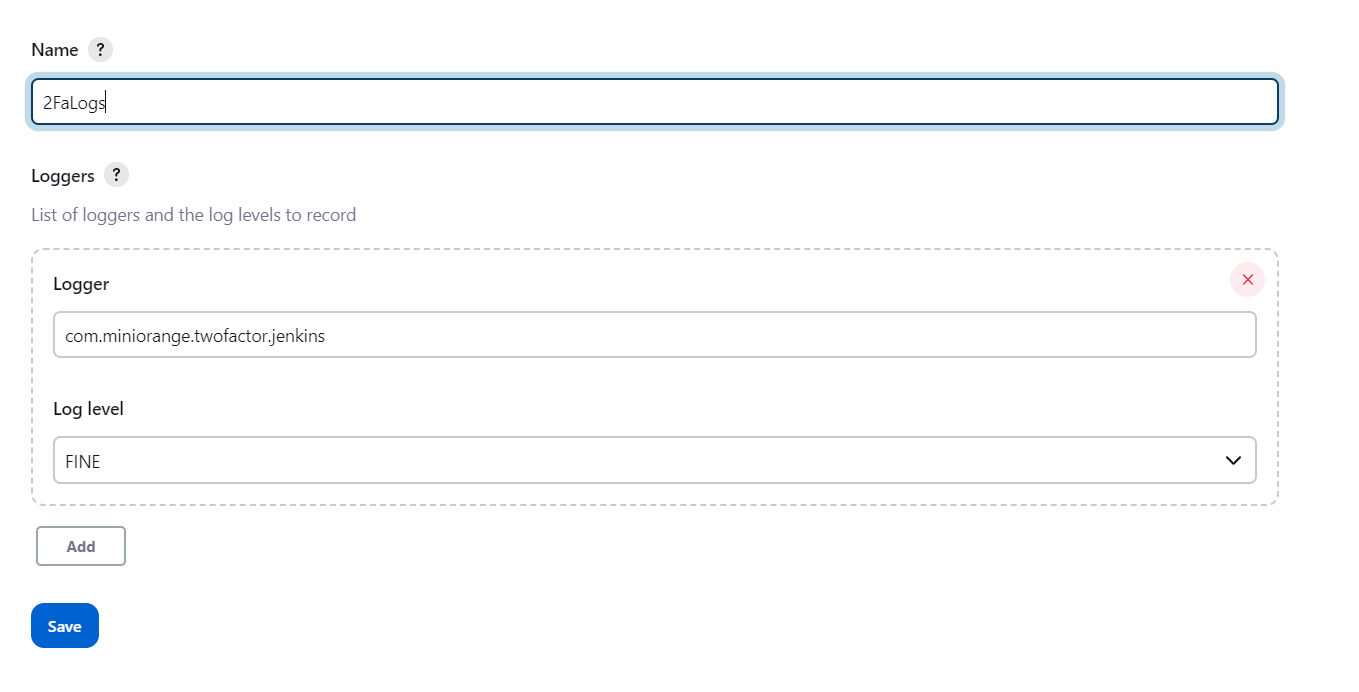
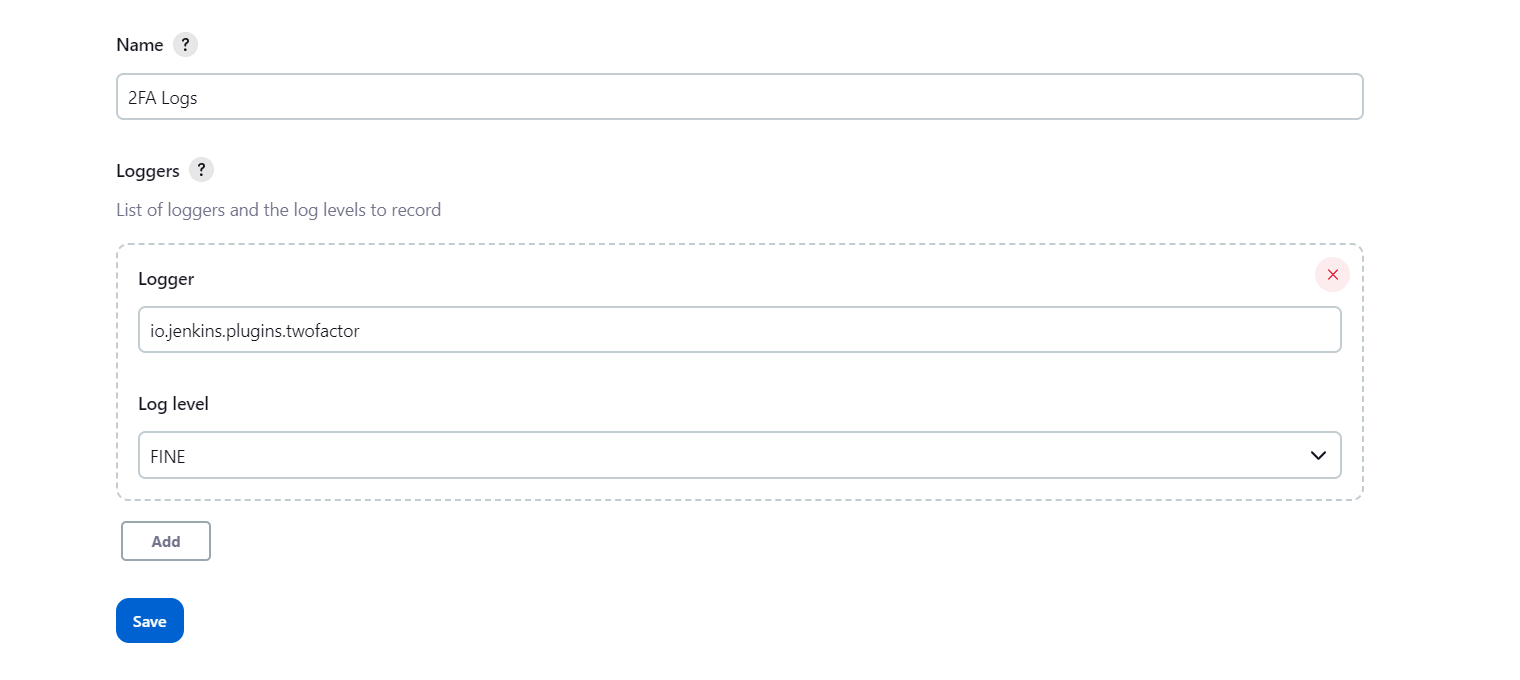
Jenkins 2FA release-1.0.3

diff --git a/src/main/java/io/jenkins/plugins/twofactor/jenkins/tfaMethodsAuth/MoOtpOverEmailAuth.java b/src/main/java/io/jenkins/plugins/twofactor/jenkins/tfaMethodsAuth/MoOtpOverEmailAuth.java
@@ -22,8 +22,8 @@
 package io.jenkins.plugins.twofactor.jenkins.tfaMethodsAuth;
 
 import static hudson.tasks.Mailer.stringToAddress;
-import static io.jenkins.plugins.twofactor.constants.MoGlobalConfigConstant.UtilityGlobalConstants.SESSION_2FA_VERIFICATION;
 import static io.jenkins.plugins.twofactor.jenkins.MoFilter.userAuthenticationStatus;
+import static io.jenkins.plugins.twofactor.jenkins.MoUserAuth.allow2FaAccessAndRedirect;
 
 import hudson.Util;
 import hudson.model.Action;
@@ -253,53 +253,32 @@ public class MoOtpOverEmailAuth implements Action {
     try {
       String userInputOtp = json.getString("emailOtpForVerification");
       HttpSession session = req.getSession(false);
+      String LoggingAction = "Authenticating the OTPOverEmail  OTP to login user";
+
       if (!isOtpOverEmailConfigured) {
-        LOGGER.fine("Authenticating the OTP to set OTPOverEmailConfig for user");
-        MoOtpOverEmailConfig otpOverEmailConfig = user.getProperty(MoOtpOverEmailConfig.class);
-        if (userInputOtp.equals(sentOtp.get(user.getId()))) {
-          LOGGER.fine("Otp is authentic");
-          otpOverEmailConfig.setConfigured(true);
-          sentOtp.remove(user.getId());
-
-          if (session != null) {
-            redirectUrl = (String) session.getAttribute("tfaRelayState");
-            session.removeAttribute("tfaRelayState");
-            session.setAttribute(user.getId() + SESSION_2FA_VERIFICATION.getKey(), "true");
-            userAuthenticationStatus.put(user.getId(), true);
-            showWrongCredentialWarning.put(user.getId(), false);
-          } else {
-            LOGGER.fine("Entered wrong otp for otpOverEmailConfig");
-            redirectUrl = "./";
-            showWrongCredentialWarning.put(user.getId(), true);
-          }
-        } else {
-          LOGGER.fine("Entered wrong otp for otpOverEmailConfig");
-          redirectUrl = "./";
-          showWrongCredentialWarning.put(user.getId(), true);
-        }
-
-        user.save();
-      } else {
-        LOGGER.fine("Authenticating the OTPOverEmail  OTP to login user");
-        if (userInputOtp.equals(sentOtp.get(user.getId()))) {
-          LOGGER.fine("User is authentic");
-          sentOtp.remove(user.getId());
-          if (session != null) {
-            redirectUrl = (String) session.getAttribute("tfaRelayState");
-            session.removeAttribute("tfaRelayState");
-            session.setAttribute(user.getId() + SESSION_2FA_VERIFICATION.getKey(), "true");
-            userAuthenticationStatus.put(user.getId(), true);
-            showWrongCredentialWarning.put(user.getId(), false);
-          }
-
-        } else {
-          LOGGER.fine("User is not authentic");
-          redirectUrl = "./";
-          showWrongCredentialWarning.put(user.getId(), true);
-        }
+        LoggingAction = "Authenticating the OTP to set OTPOverEmailConfig for user";
       }
+
+      LOGGER.fine(LoggingAction);
+
+      MoOtpOverEmailConfig otpOverEmailConfig = user.getProperty(MoOtpOverEmailConfig.class);
+
+      if (userInputOtp.equals(sentOtp.get(user.getId()))) {
+        LOGGER.fine("Otp is authentic");
+        otpOverEmailConfig.setConfigured(true);
+        sentOtp.remove(user.getId());
+        redirectUrl = allow2FaAccessAndRedirect(session, user, showWrongCredentialWarning);
+      } else {
+        LOGGER.fine("Entered wrong otp for otpOverEmailConfig");
+        redirectUrl = "./";
+        showWrongCredentialWarning.put(user.getId(), true);
+      }
+      if (!isOtpOverEmailConfigured) {
+        user.save();
+      }
+
       if (redirectUrl == null) redirectUrl = Jenkins.get().getRootUrl();
-      LOGGER.fine("Redirecting user from otpOverEmailAuth to " + redirectUrl);
+      LOGGER.fine("Redirecting" + user.getId() + " from otpOverEmailAuth to " + redirectUrl);
       FormApply.success(redirectUrl).generateResponse(req, rsp, null);
 
     } catch (RuntimeException e) {

diff --git a/src/main/java/io/jenkins/plugins/twofactor/jenkins/tfaMethodsAuth/MoSecurityQuestionAuth.java b/src/main/java/io/jenkins/plugins/twofactor/jenkins/tfaMethodsAuth/MoSecurityQuestionAuth.java
@@ -21,10 +21,10 @@
  */
 package io.jenkins.plugins.twofactor.jenkins.tfaMethodsAuth;
 
-import static io.jenkins.plugins.twofactor.constants.MoGlobalConfigConstant.UtilityGlobalConstants.SESSION_2FA_VERIFICATION;
-import static io.jenkins.plugins.twofactor.jenkins.MoFilter.userAuthenticationStatus;
+import static io.jenkins.plugins.twofactor.jenkins.MoUserAuth.allow2FaAccessAndRedirect;
 import static jenkins.model.Jenkins.get;
 
+import hudson.Extension;
 import hudson.model.*;
 import hudson.util.FormApply;
 import io.jenkins.plugins.twofactor.constants.MoPluginUrls;
@@ -39,7 +39,7 @@ import org.kohsuke.stapler.StaplerRequest;
 import org.kohsuke.stapler.StaplerResponse;
 import org.kohsuke.stapler.interceptor.RequirePOST;
 
-// @Extension
+ @Extension
 public class MoSecurityQuestionAuth implements Action {
   private static final Logger LOGGER = Logger.getLogger(MoSecurityQuestionAuth.class.getName());
   int firstRandomSecurityQuestionIndex = 0;
@@ -107,9 +107,13 @@ public class MoSecurityQuestionAuth implements Action {
     }
   }
 
+   @SuppressWarnings("unused")
+   public void doInitializeRandomTwoIndex() {
+     initializeRandomTwoIndex();
+   }
+
   @SuppressWarnings("unused")
   public String getFirstRandomSecurityQuestion() {
-    initializeRandomTwoIndex();
     return securityQuestionArray[firstRandomSecurityQuestionIndex];
   }
 
@@ -155,22 +159,15 @@ public class MoSecurityQuestionAuth implements Action {
       if (user == null) return;
       if (validateUserAnswers(formData)) {
         LOGGER.fine(user.getId() + " user is authentic");
-        if (session != null) {
-          redirectUrl = (String) session.getAttribute("tfaRelayState");
-          session.removeAttribute("tfaRelayState");
-          session.setAttribute(user.getId() + SESSION_2FA_VERIFICATION.getKey(), "true");
-          userAuthenticationStatus.put(user.getId(), true);
-        }
-        showWrongCredentialWarning.put(user.getId(), false);
+        redirectUrl = allow2FaAccessAndRedirect(session, user, showWrongCredentialWarning);
       } else {
         LOGGER.fine("User is not authentic");
         redirectUrl = "./";
         showWrongCredentialWarning.put(user.getId(), true);
       }
-      LOGGER.fine("Redirecting user to " + redirectUrl);
 
       if (redirectUrl == null) redirectUrl = Jenkins.get().getRootUrl();
-
+      LOGGER.fine("Redirecting" + user.getId() + " from  MoSecurityQuestionAuth to " + redirectUrl);
       FormApply.success(redirectUrl).generateResponse(staplerRequest, staplerResponse, null);
     } catch (Exception e) {
       LOGGER.fine("Exception while authenticating/Logging out the user " + e.getMessage());

diff --git a/src/main/java/io/jenkins/plugins/twofactor/jenkins/MoUserAuth.java b/src/main/java/io/jenkins/plugins/twofactor/jenkins/MoUserAuth.java
@@ -21,10 +21,13 @@
  */
 package io.jenkins.plugins.twofactor.jenkins;
 
+import static io.jenkins.plugins.twofactor.constants.MoGlobalConfigConstant.UtilityGlobalConstants.SESSION_2FA_VERIFICATION;
 import static io.jenkins.plugins.twofactor.constants.MoPluginUrls.Urls.MO_USER_AUTH;
+import static io.jenkins.plugins.twofactor.jenkins.MoFilter.userAuthenticationStatus;
 import static jenkins.model.Jenkins.get;
 
 import hudson.Extension;
+import hudson.ExtensionList;
 import hudson.model.Describable;
 import hudson.model.Descriptor;
 import hudson.model.RootAction;
@@ -37,6 +40,8 @@ import java.util.HashMap;
 import java.util.Map;
 import java.util.logging.Logger;
 import jenkins.model.Jenkins;
+
+import javax.servlet.http.HttpSession;
 
 @SuppressWarnings("unused")
 @Extension
@@ -112,6 +117,23 @@ public class MoUserAuth implements RootAction, Describable<MoUserAuth> {
     boolean isConfigured = otpOverEmailConfig != null && otpOverEmailConfig.isConfigured();
     boolean isEnabled = MoGlobalConfig.get().isEnableOtpOverEmailAuthentication();
     return isConfigured && isEnabled;
+  }
+
+  public static String allow2FaAccessAndRedirect(HttpSession session, User user, Map<String, Boolean> showWrongCredentialWarning){
+    String redirectUrl;
+    if (session != null) {
+      redirectUrl = (String) session.getAttribute("tfaRelayState");
+      session.removeAttribute("tfaRelayState");
+      session.setAttribute(user.getId() + SESSION_2FA_VERIFICATION.getKey(), "true");
+      userAuthenticationStatus.put(user.getId(), true);
+      MoUserAuth moUserAuth = ExtensionList.lookupSingleton(MoUserAuth.class);
+      moUserAuth.cleanUserAuthResource(user.getId());
+      showWrongCredentialWarning.put(user.getId(), false);
+    } else {
+      LOGGER.fine("Session is null, hence not authenticating the user");
+      redirectUrl = "./";
+    }
+    return redirectUrl;
   }
 
   @SuppressWarnings("unchecked")

diff --git a/src/main/java/io/jenkins/plugins/twofactor/jenkins/MoFilter.java b/src/main/java/io/jenkins/plugins/twofactor/jenkins/MoFilter.java
@@ -154,11 +154,15 @@ public class MoFilter implements Filter {
             "/login",
             "/adjuncts",
             "/static",
+            ".css",
+            ".js",
             "PopupContent",
             "/ajaxBuildQueue",
             "/ajaxExecutors",
             "/descriptorByName",
             "/checkPluginUrl",
+            "/theme-dark",
+            "/resourceBundle",
             "/log");
     return urlsToAvoidRedirect(url, jenkinsUrls);
   }
@@ -172,6 +176,22 @@ public class MoFilter implements Filter {
             MoPluginUrls.Urls.MO_OTP_OVER_EMAIL_CONFIG.getUrl(),
             MO_USER_AUTH.getUrl() + "/");
     return urlsToAvoidRedirect(url, tfaPluginUrls);
+  }
+
+  private boolean RestUrlsToAvoid(String url){
+    List<String> restUrls =
+            Arrays.asList(
+                    "/createItem",
+                    "/createView",
+                    "/queue",
+                    "/overallLoad",
+                    "/quietDown",
+                    "/cancelQuietDown",
+                    "/restart",
+                    "/safeRestart",
+                    "/api/json"
+                    );
+    return urlsToAvoidRedirect(url,restUrls);
   }
 
   private static boolean enableTfaForAllUsers() {
@@ -218,7 +238,7 @@ public class MoFilter implements Filter {
       return true;
     }
 
-    if (tfaPluginUrlsToAvoidRedirect(url) || JenkinsUrlsToAvoidRedirect(url)) {
+    if (tfaPluginUrlsToAvoidRedirect(url) || JenkinsUrlsToAvoidRedirect(url) || RestUrlsToAvoid(url)){
       return true;
     }
 
@@ -240,6 +260,8 @@ public class MoFilter implements Filter {
       }
 
       String redirectUrl = getRedirectUrlForTfaAuthentication(user);
+
+      LOGGER.fine("Authentication method url " + redirectUrl);
 
       if (redirectUrl.equals("SKIP_FILTER")) {
         filterChain.doFilter(servletRequest, servletResponse);

diff --git a/src/main/java/io/jenkins/plugins/twofactor/jenkins/MoTfaCrumbExclusion.java b/src/main/java/io/jenkins/plugins/twofactor/jenkins/MoTfaCrumbExclusion.java
@@ -1,0 +1,45 @@
+package io.jenkins.plugins.twofactor.jenkins;
+
+import static io.jenkins.plugins.twofactor.constants.MoGlobalConfigConstant.UtilityGlobalConstants.SESSION_2FA_VERIFICATION;
+
+import hudson.Extension;
+import hudson.model.User;
+import hudson.security.csrf.CrumbExclusion;
+import java.io.IOException;
+import java.util.logging.Logger;
+import javax.servlet.FilterChain;
+import javax.servlet.ServletException;
+import javax.servlet.http.HttpServletRequest;
+import javax.servlet.http.HttpServletResponse;
+import javax.servlet.http.HttpSession;
+
+@Extension
+@SuppressWarnings("unused")
+public class MoTfaCrumbExclusion extends CrumbExclusion {
+  private static final Logger LOGGER = Logger.getLogger(MoTfaCrumbExclusion.class.getName());
+
+  @Override
+  public boolean process(
+      HttpServletRequest request, HttpServletResponse response, FilterChain filterChain)
+      throws IOException, ServletException {
+    HttpSession session = request.getSession();
+    User user = User.current();
+
+    if (user == null || session == null || ignoreCrumbCheck(session, user.getId())) {
+      filterChain.doFilter(request, response);
+      return true;
+    }
+    return false;
+  }
+
+  private boolean ignoreCrumbCheck(HttpSession session, String userId) {
+    String sessionAttributeKey = userId + SESSION_2FA_VERIFICATION.getKey();
+    Object tfaVerificationAttribute = session.getAttribute(sessionAttributeKey);
+
+    if (tfaVerificationAttribute == null) {
+      return true;
+    }
+
+    return !Boolean.parseBoolean(tfaVerificationAttribute.toString());
+  }
+}

diff --git a/src/main/java/io/jenkins/plugins/twofactor/jenkins/MoSecurityListener.java b/src/main/java/io/jenkins/plugins/twofactor/jenkins/MoSecurityListener.java
@@ -37,8 +37,6 @@ public class MoSecurityListener extends SecurityListener {
   @Override
   public void loggedOut(@NonNull String username) {
     userAuthenticationStatus.put(username, false);
-    MoUserAuth moUserAuth = ExtensionList.lookupSingleton(MoUserAuth.class);
-    moUserAuth.cleanUserAuthResource(username);
     LOGGER.fine("Executing logged out event for username " + username);
   }
 }

diff --git a/src/main/java/io/jenkins/plugins/twofactor/jenkins/MoGlobalConfig.java b/src/main/java/io/jenkins/plugins/twofactor/jenkins/MoGlobalConfig.java
@@ -122,7 +122,7 @@ public class MoGlobalConfig extends GlobalConfiguration {
 
   @Override
   protected XmlFile getConfigFile() {
-    File pluginDir = new File(Jenkins.get().getRootDir(), "/plugins/miniorange-two-factor");
+    File pluginDir = new File(Jenkins.get().getRootDir(), "/plugins/moTfaGlobalConfig");
     return new XmlFile(new File(pluginDir, this.getId() + ".xml"));
   }
 

diff --git a/README.md b/README.md
@@ -42,7 +42,7 @@ resolve your issue in no time.
 * Sign in to Jenkins as an admin and select Manage Jenkins from the left panel of the dashboard.
 * Scroll down to find the System Log option.
 * Click Add new Log Recorder button and add the log recorder name as 2FaLogs.
-* Add **com.miniorange.twofactor.jenkins** as a Logger and select fine as a log level.
+* Add **io.jenkins.plugins.twofactor** as a Logger and select fine as a log level.
   ![image_3](docs/images/troubleshooting/logger_record.png)
 * Save the settings.
 * Perform 2FA on another browser/private window to record logs.
